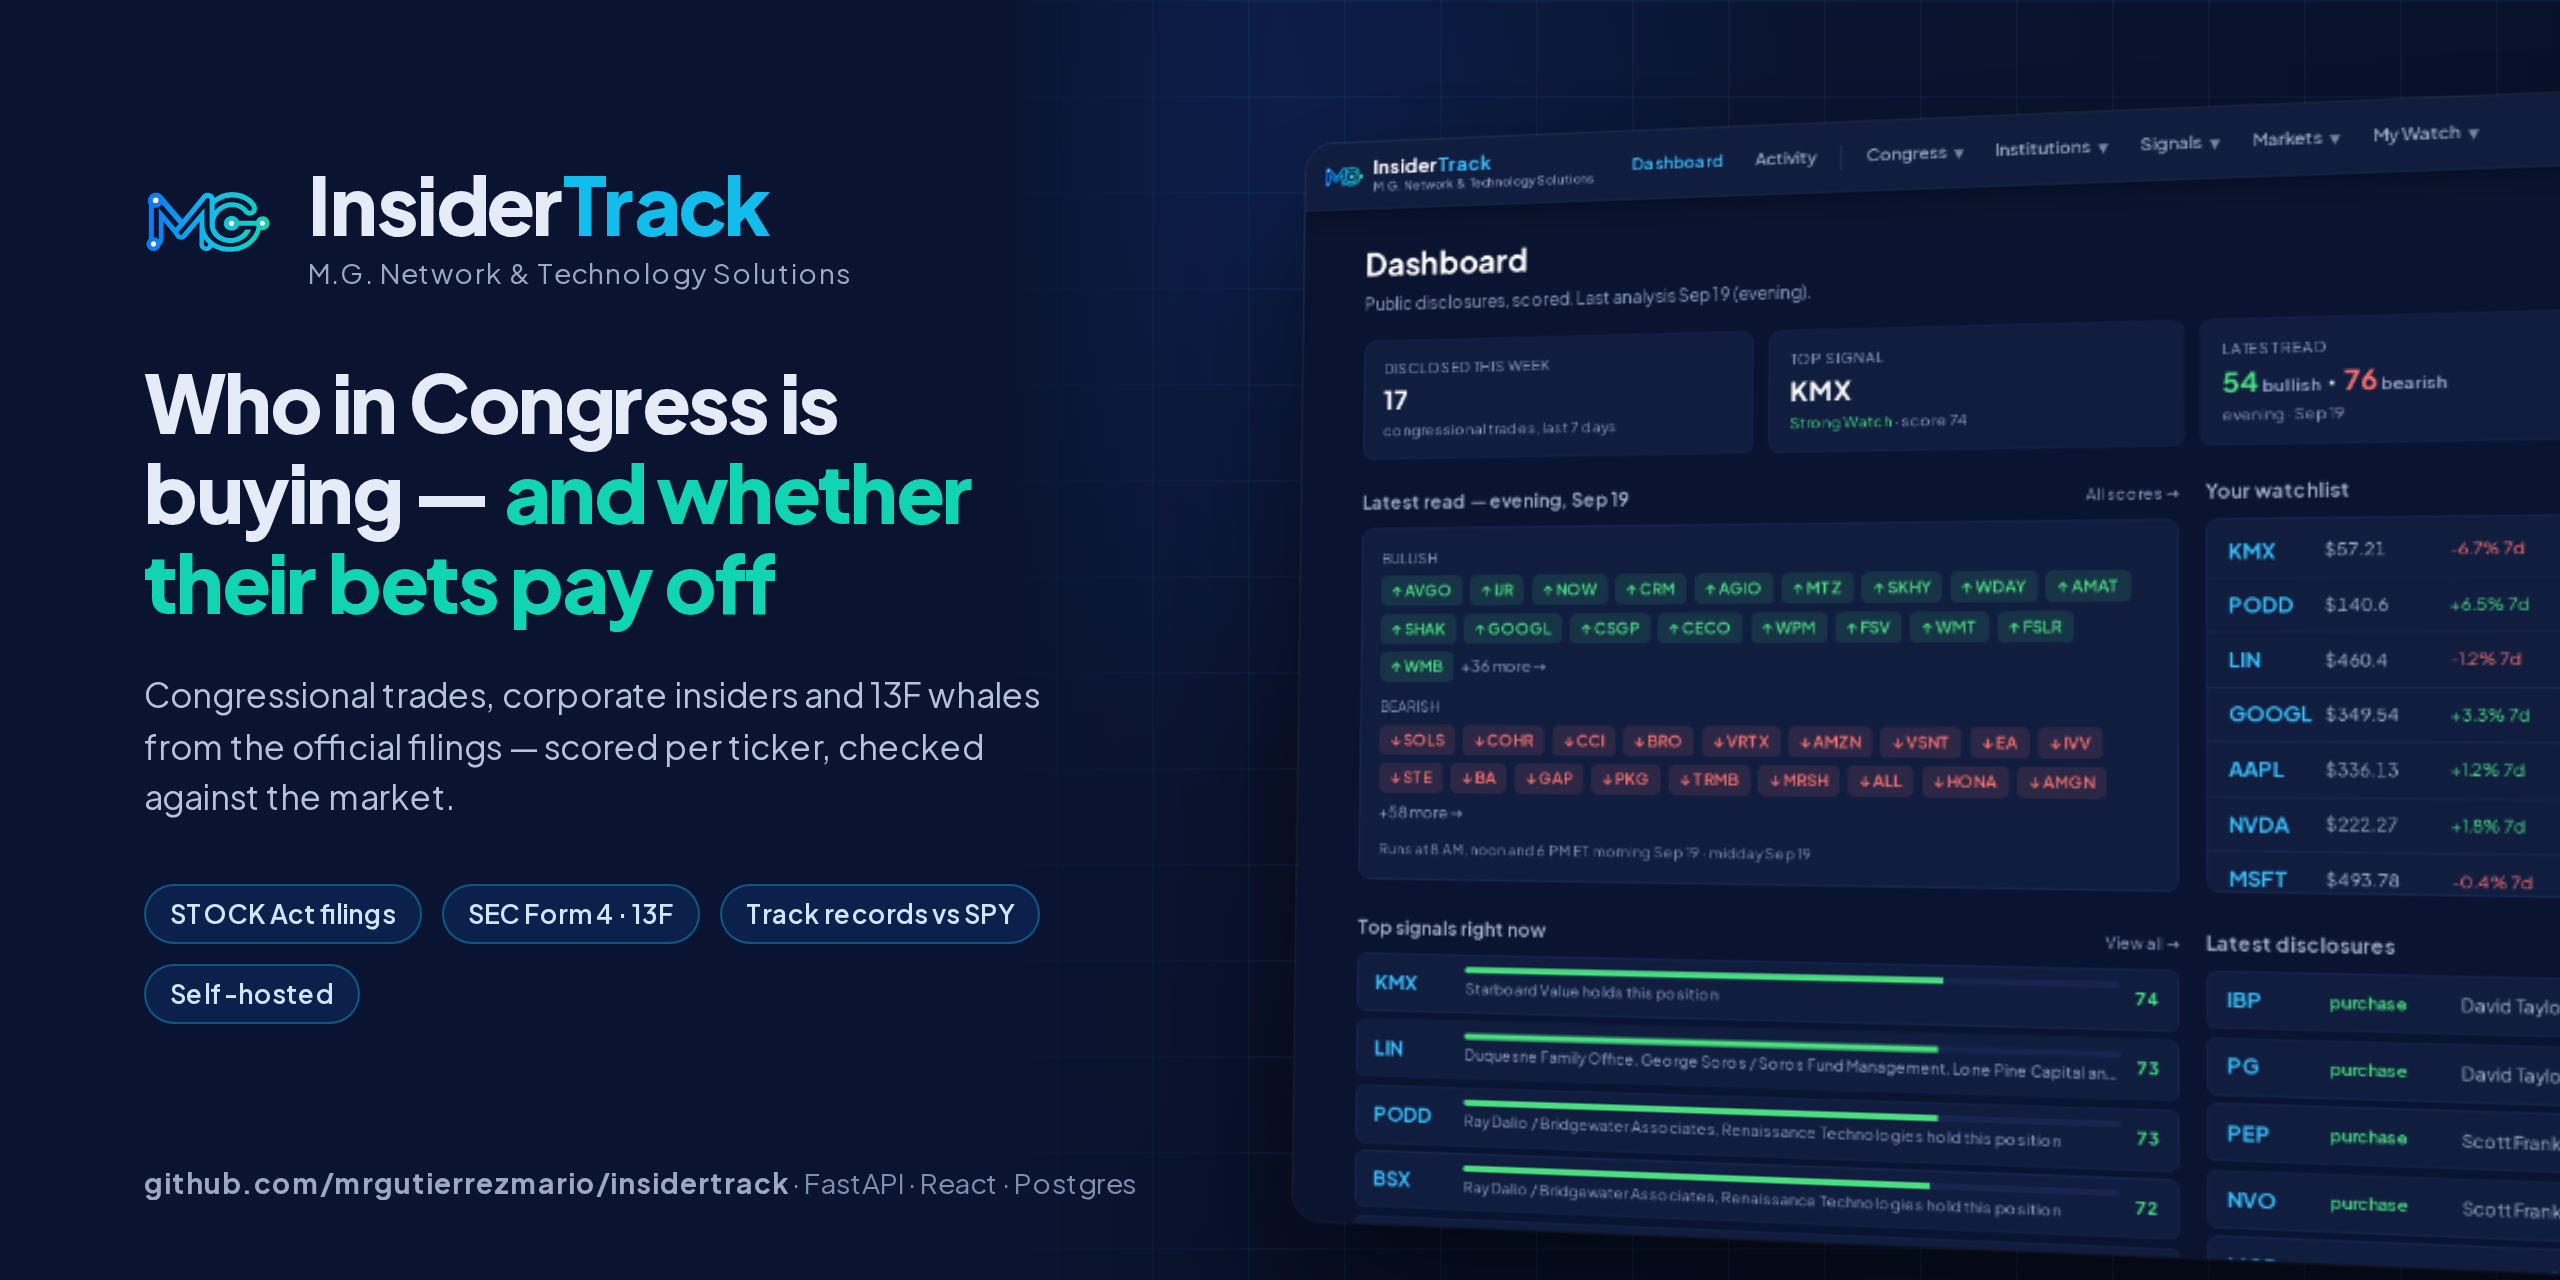
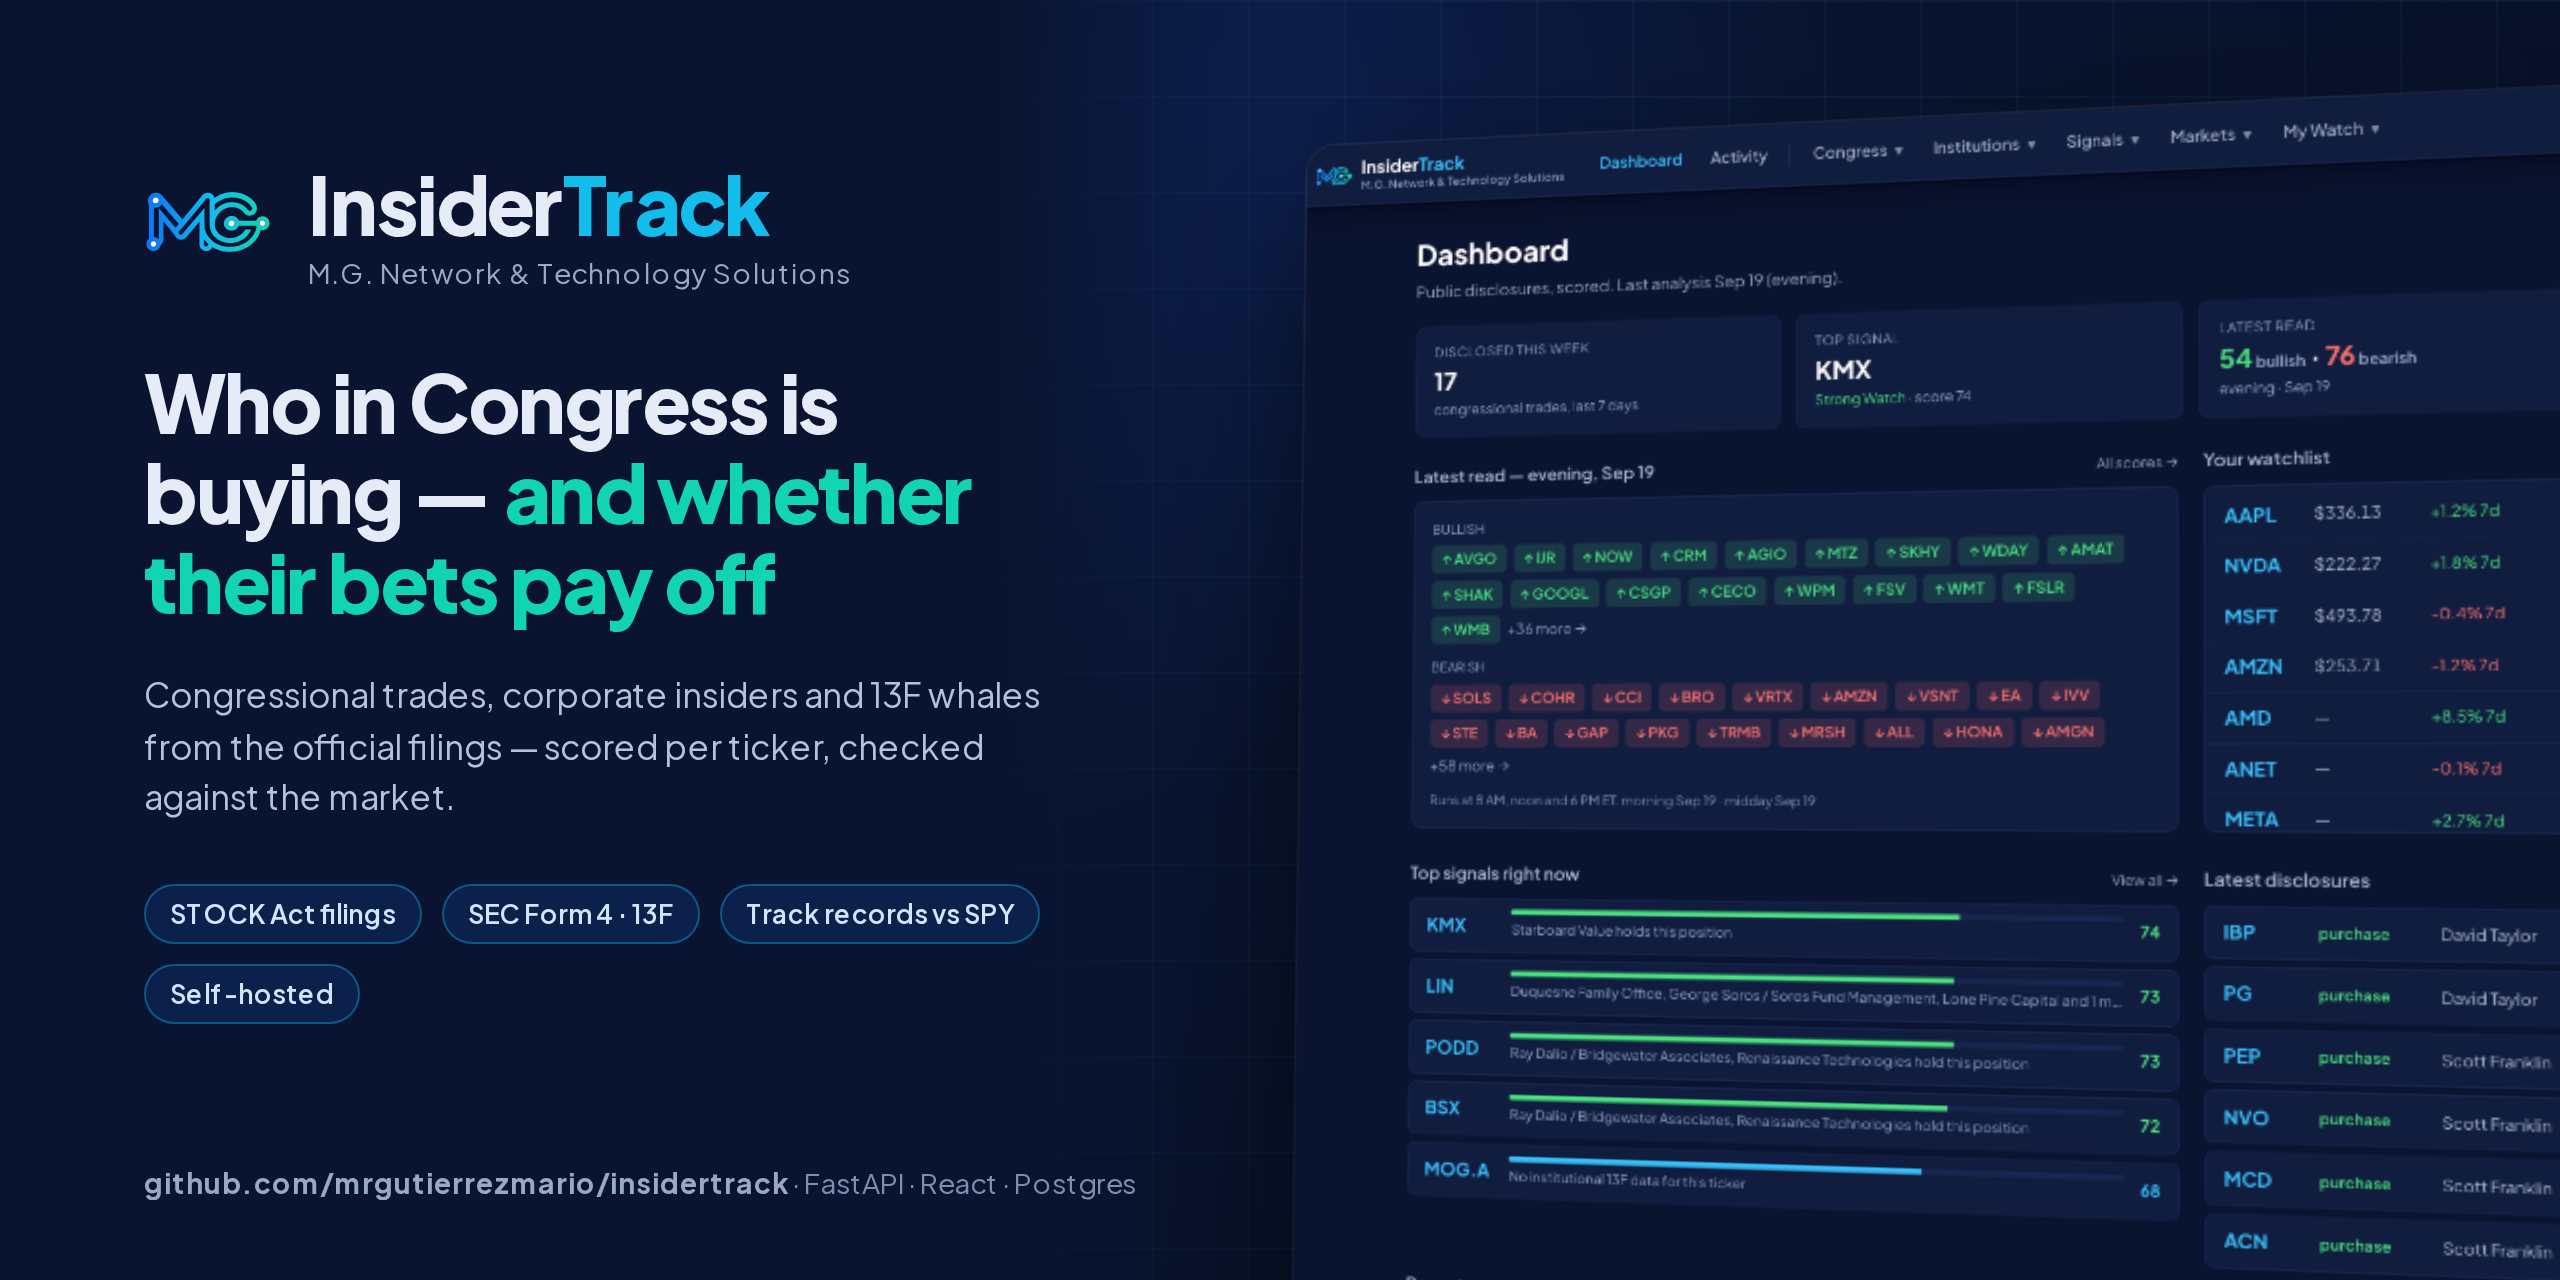
Docs: dashboard screenshot from the live site with a scrolling watchlist

Changed region(s): [[0.5, 0.0938, 1.0, 1.0], [0.9688, 0.4062, 1.0, 0.4375]]

diff --git a/README.md b/README.md
@@ -19,7 +19,7 @@ own machine from free public data sources; cloud AI providers are optional.
 
 ![The Dashboard in dark mode: this week's disclosures, the top signal, the latest bullish/bearish read and alerts fired; the latest analysis as ticker chips beside a watchlist with prices, 7-day change and each ticker's score; then top signals and latest disclosures](design/screenshots/dashboard-dark.png)
 
-<p align="center"><em>The Dashboard: what changed this week, the top signal, the latest read, your watchlist with each ticker's score. Dark mode; light mode below.</em></p>
+<p align="center"><em>The Dashboard: what changed this week, the top signal, the latest read, and your watchlist — every saved ticker with price, 7-day change and score, scrolling inside its card. Dark mode; light mode below.</em></p>
 
 | | |
 |---|---|
